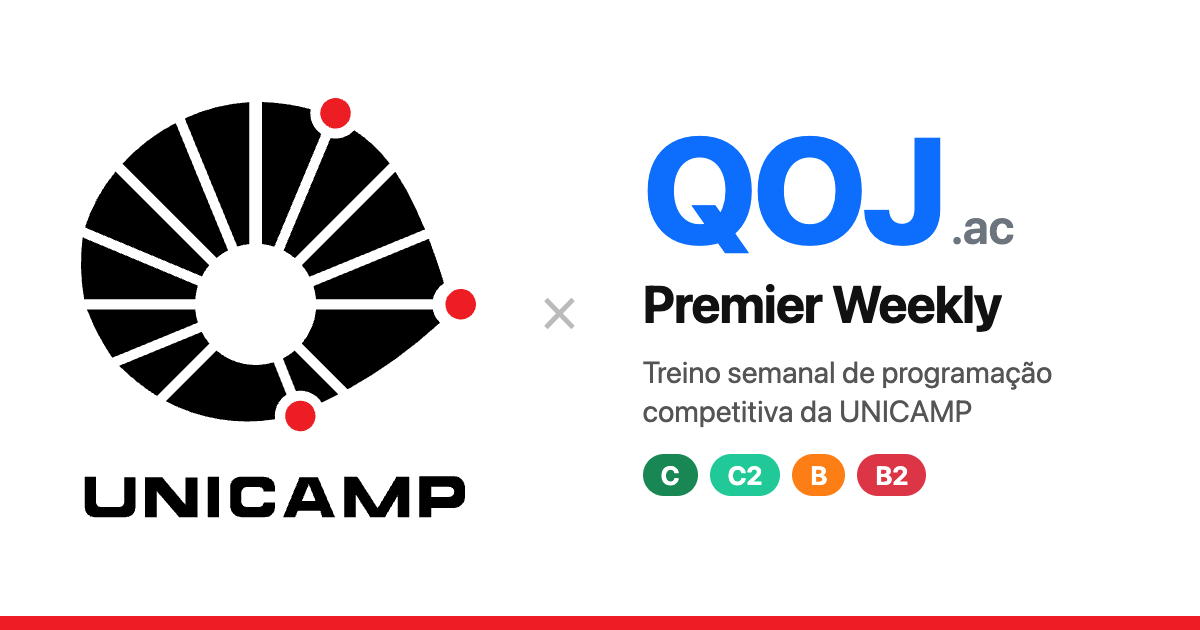
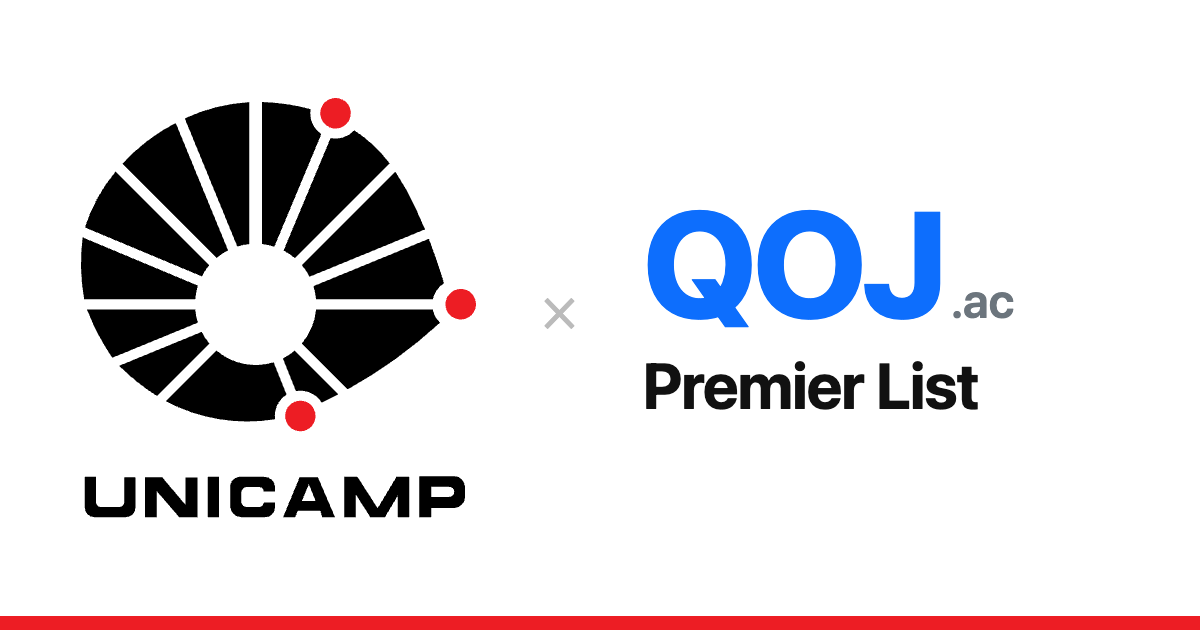
qoj: simplify preview image (Premier List, no subtitle/chips)

Changed region(s): [[0.5242, 0.2111, 0.8633, 0.5429], [0.5242, 0.573, 0.8942, 0.6937], [0.5242, 0.7238, 0.7708, 0.7841]]

diff --git a/qoj/assets/og/card.html b/qoj/assets/og/card.html
@@ -19,10 +19,7 @@
   .qoj { display: inline-flex; align-items: baseline; gap: 6px; }
   .qoj b { font-size: 150px; line-height: .9; font-weight: 800; letter-spacing: -4px; color: #0d6efd; }
   .qoj span { font-size: 48px; font-weight: 600; color: #6c757d; }
-  .title { font-size: 52px; font-weight: 700; letter-spacing: -1px; }
-  .sub { font-size: 30px; color: #555; line-height: 1.3; }
-  .chips { display: flex; gap: 12px; margin-top: 6px; }
-  .chips i { font-style: normal; font-size: 26px; font-weight: 700; padding: 6px 18px; border-radius: 999px; color: #fff; }
+  .title { font-size: 64px; font-weight: 700; letter-spacing: -1px; }
 </style>
 </head>
 <body>
@@ -30,12 +27,7 @@
   <div class="x">×</div>
   <div class="right">
     <div class="qoj"><b>QOJ</b><span>.ac</span></div>
-    <div class="title">Premier Weekly</div>
-    <div class="sub">Treino semanal de programação<br>competitiva da UNICAMP</div>
-    <div class="chips">
-      <i style="background:#198754">C</i><i style="background:#20c997">C2</i>
-      <i style="background:#fd7e14">B</i><i style="background:#dc3545">B2</i>
-    </div>
+    <div class="title">Premier List</div>
   </div>
 </body>
 </html>
